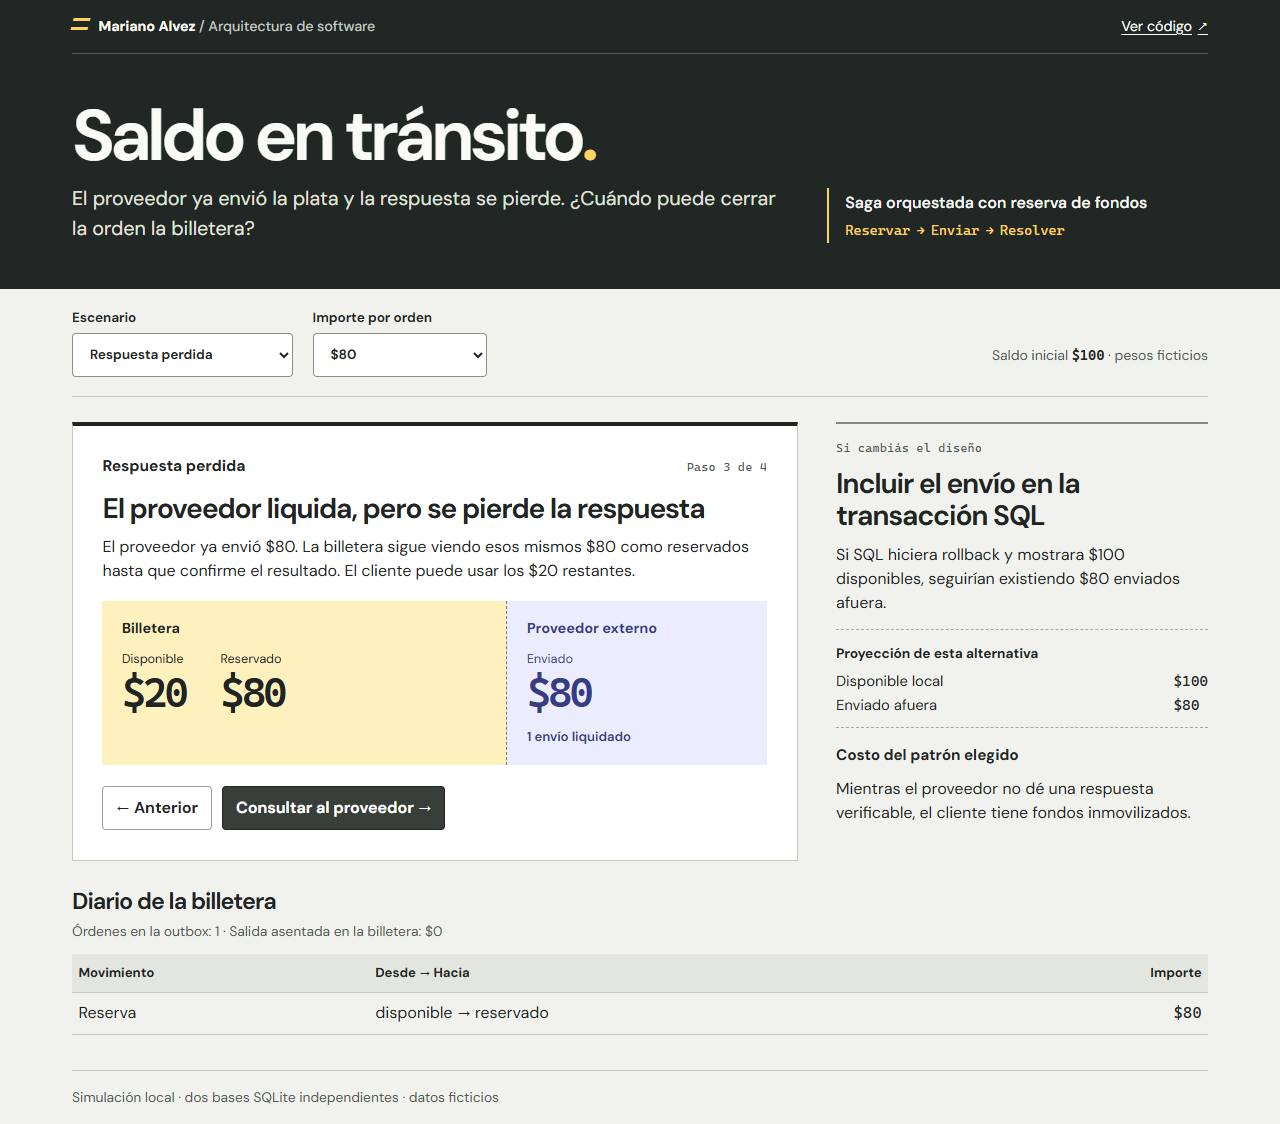
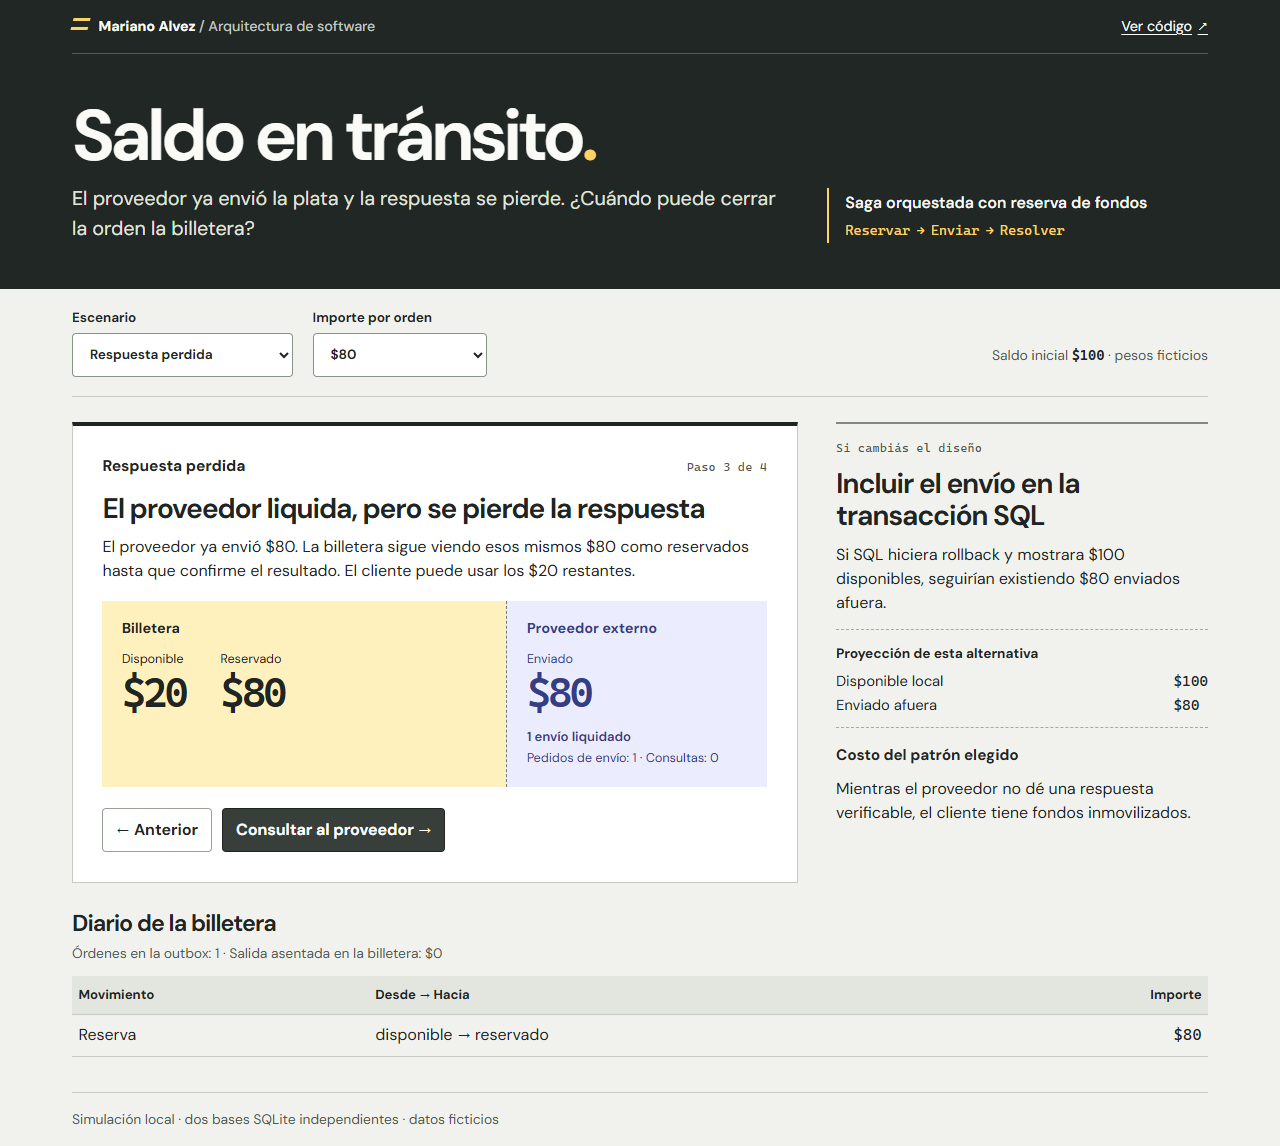
Distinguir consultas y reintentos con el registro del proveedor

diff --git a/web/style.css b/web/style.css
@@ -83,6 +83,7 @@ button:disabled { color: #70766f; border-color: var(--rule); background: #f4f5f1
 .record-head strong { font-size: .97rem; }
 #narration { margin-top: .9rem; }
 #provider-status { margin-top: .6rem; font-size: .82rem; font-weight: 600; }
+#provider-activity { margin-top: .18rem; font-size: .79rem; }
 #progress, .label { font: .78rem/1.5 var(--mono); color: var(--muted); }
 .flow { display: grid; grid-template-columns: minmax(0, 1.55fr) minmax(0, 1fr); margin-block: 1.1rem 1.3rem; }
 .flow section { padding: clamp(.75rem, 2vw, 1.2rem); }

diff --git a/web/index.html b/web/index.html
@@ -59,6 +59,7 @@
               <h2>Proveedor externo</h2>
               <dl><div><dt>Enviado</dt><dd id="external"></dd></div></dl>
               <p id="provider-status"></p>
+              <p id="provider-activity"></p>
             </section>
           </div>
 

diff --git a/README.md b/README.md
@@ -6,6 +6,8 @@ Una billetera tiene $100. Llegan dos transferencias de $80. ¿En qué momento pu
 
 Abrí **Respuesta perdida**. El proveedor ya envió $80 y la billetera muestra $20 disponibles y $80 reservados. Son los mismos $80 vistos desde dos sistemas. Pulsá **Consultar al proveedor** para ver cómo la billetera confirma la salida. Cada escenario abre en su incidente. **Anterior** permite revisar la reserva y el saldo de apertura.
 
+Compará ese cierre con **Reintento del mismo envío**. La consulta deja un pedido de envío y una consulta. El reintento deja dos pedidos de envío y cero consultas. En ambos casos el proveedor liquida una sola transferencia. Los contadores se leen del registro de operaciones del proveedor simulado.
+
 ## La decisión
 
 Primero se reserva saldo con una escritura condicional. En esa **misma transacción local** entran la intención de transferencia, el asiento de reserva y la orden de envío en una outbox. Después del commit, un worker usa la referencia persistida para enviar. El cliente puede conocer la orden aceptada mientras su liquidación sigue pendiente.
